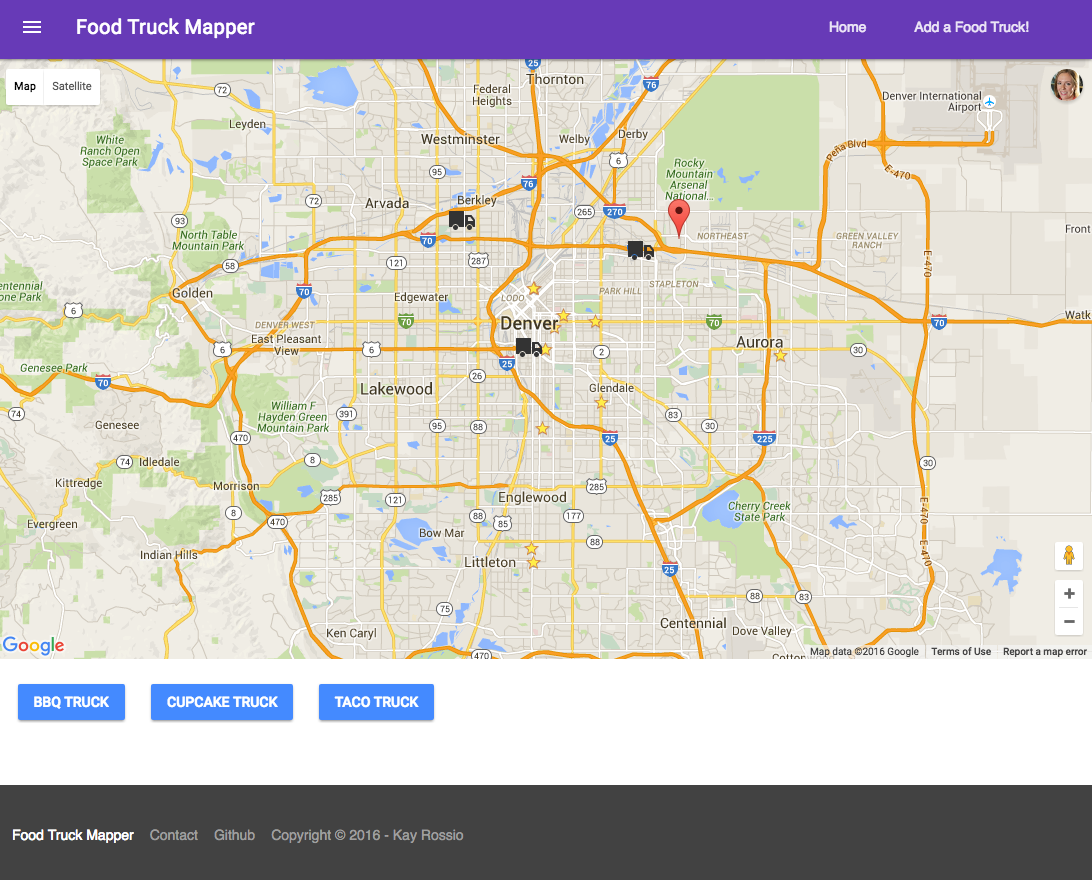
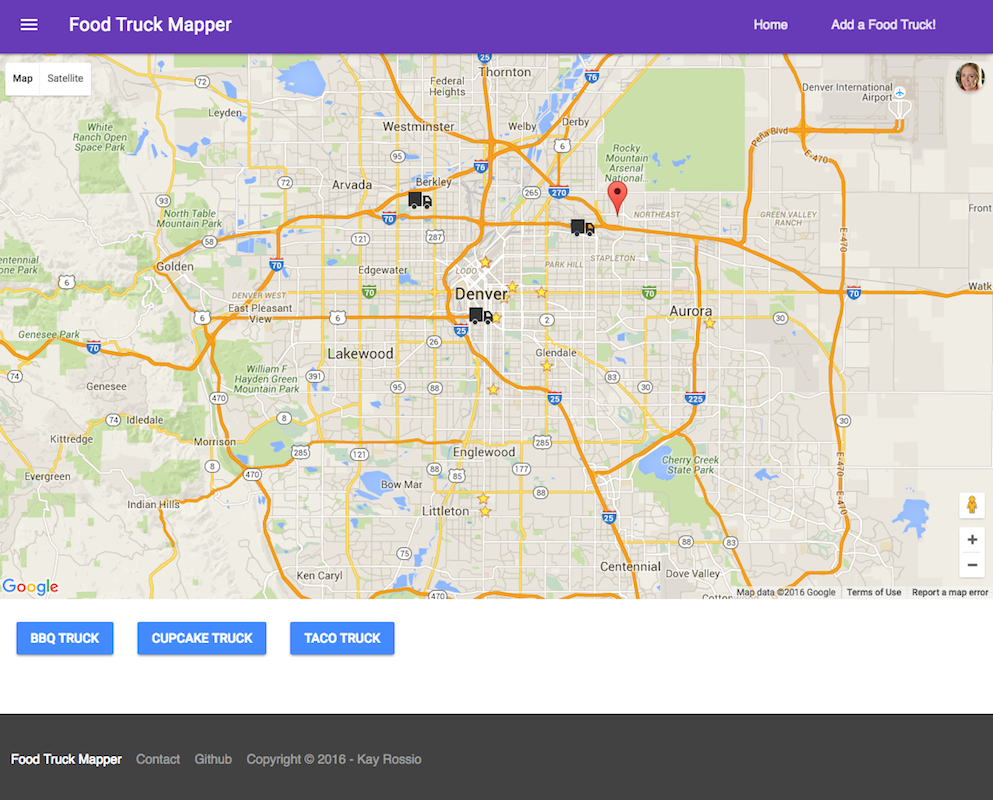
link color, img size, small content tweaks

diff --git a/index.html b/index.html
@@ -100,7 +100,7 @@
             <div class="row">
                 <div class="col-lg-12 text-center">
                     <h2 class="section-heading">About Me</h2>
-                    <h3 class="section-subheading text-muted">My journey to becoming a full stack developer.</h3>
+                    <h3 class="section-subheading text-muted">My journey to becoming a Full Stack Developer.</h3>
                 </div>
             </div>
             <div class="row">
@@ -227,7 +227,7 @@
                     </a>
                     <div class="portfolio-caption">
                        <h4>Moto Listing</h4>
-                       <p class="text-muted">LAMP Stack</p>
+                       <p class="text-muted">LAMP Stack, Bootstrap</p>
                     </div>
                 </div>
                 <div class="col-md-4 col-sm-6 portfolio-item">
@@ -601,8 +601,8 @@
                            <p class="item-intro text-muted">A store created using the MEAN stack for front and back end data management.</p>
                            <img class="img-responsive img-centered" src="img/portfolio/store.jpeg" alt="">
                            <ul class="list-inline">
-                              <p>This project was created in one day as an assignment during my MEAN stack course at Coding Dojo. Users can input customer and product information, place basic orders and view recent activity.<p>
-                                 <p>Github Repo <a href="https://github.com/krossio/mean-store">here</a><p>
+                              <p>This project was created in one day as an assignment during my MEAN stack course at Coding Dojo. Users can input customer and product information, place basic orders and view recent activity.</p>
+                                 <p>Github Repo <a href="https://github.com/krossio/mean-store">here</a></p>
                               <li>Timeline: 1 day</li>
                               <li>Technology Used: MEAN stack (MongoDB, Express, AngularJS, Node.js), Javascript, HTML, CSS, Bootstrap, MVC frameworks</li>
                            </ul>
@@ -656,8 +656,8 @@
                         <div class="modal-body">
                             <!-- Project Details Go Here -->
                             <!-- <h2>My Resume</h2> -->
-                            <img class="img-responsive img-centered" src="resume/kayrossio_resume.jpg" alt="Kay Rossio's Resume">
                             <a class="btn btn-primary" href="resume/kayrossio_resume.pdf" download="Kay Rossio's Resume">Download</a>
+                            <img class="img-responsive img-centered" src="resume/kayrossio_resume.jpg" alt="Kay Rossio's Resume">
                         </div>
                     </div>
                 </div>

diff --git a/css/agency.css b/css/agency.css
@@ -32,7 +32,7 @@ a,a:hover,a:focus,a:active,a.active{
 }
 
 a{
-   color:#FFCA28
+   color:#42A5F5
 }
 
 a:hover,a:focus,a:active,a.active{
